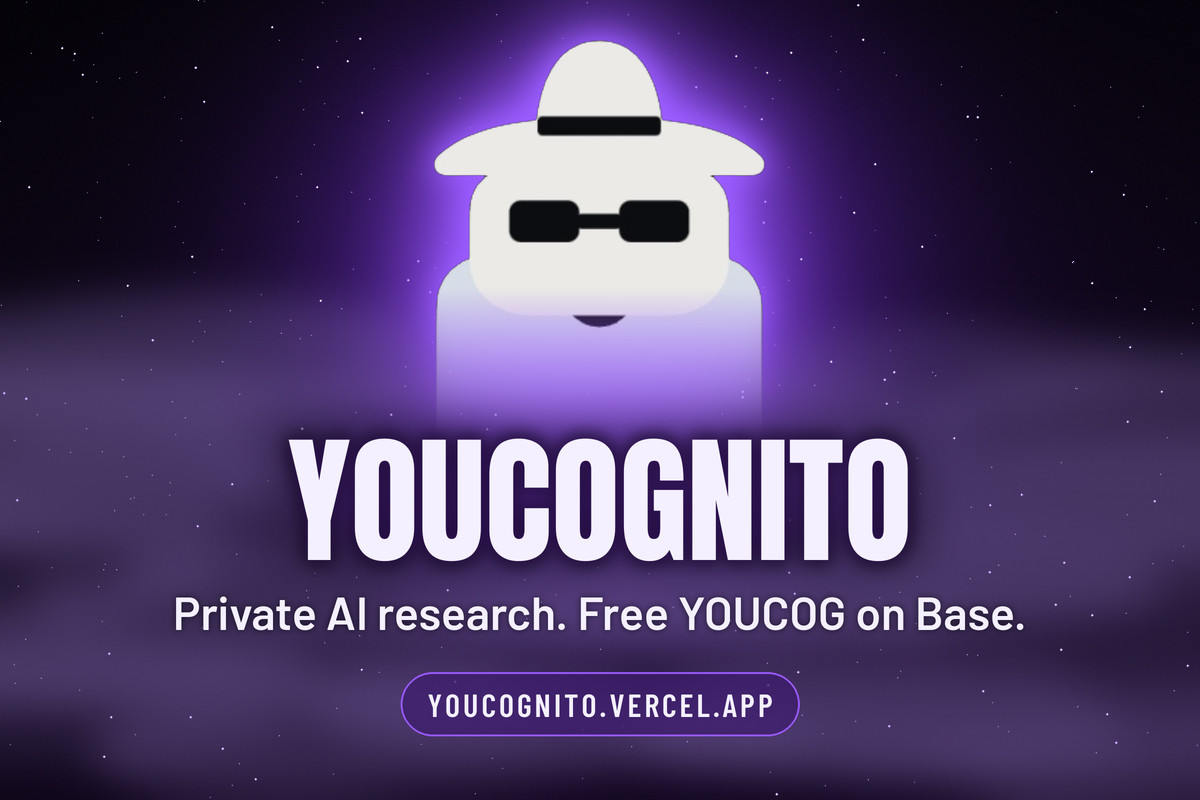
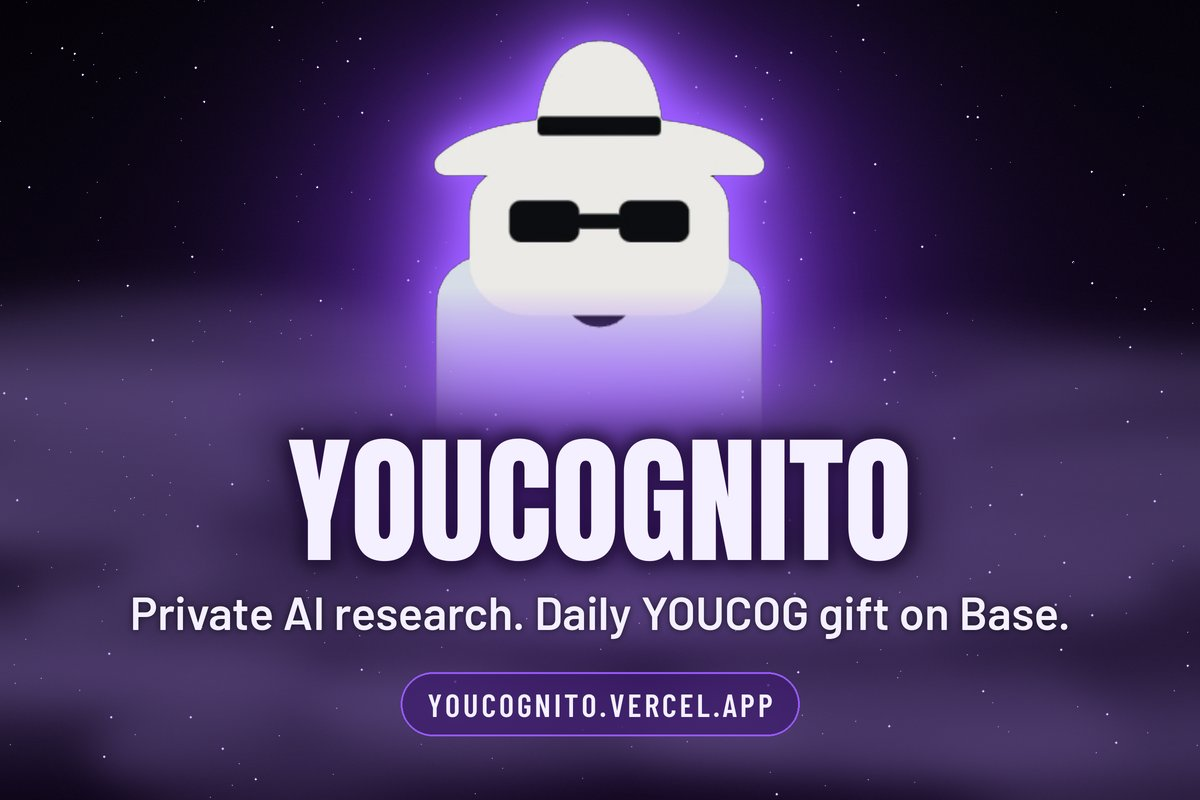
Share images and Short thumbnails: compliant gift wording (Daily YOUCOG gift on Base; no FREE or amounts), cache bust og.jpg and miniapp-embed.jpg to ?v=gift

Changed region(s): [[0.0925, 0.7188, 0.8942, 0.8125]]

diff --git a/src/routes/[.]well-known/farcaster[.]json.ts b/src/routes/[.]well-known/farcaster[.]json.ts
@@ -29,7 +29,7 @@ export const Route = createFileRoute("/.well-known/farcaster.json")({
               name: "Youcognito",
               iconUrl: `${APP_URL}/miniapp-icon.png`,
               homeUrl: `${APP_URL}/`,
-              imageUrl: `${APP_URL}/miniapp-embed.jpg`,
+              imageUrl: `${APP_URL}/miniapp-embed.jpg?v=gift`,
               buttonTitle: "Open Youcognito",
               splashImageUrl: `${APP_URL}/miniapp-splash.png`,
               splashBackgroundColor: "#000000",
@@ -38,10 +38,10 @@ export const Route = createFileRoute("/.well-known/farcaster.json")({
               tagline: "Research privately on Base",
               primaryCategory: "utility",
               tags: ["privacy", "base", "faucet", "youcog", "research"],
-              heroImageUrl: `${APP_URL}/og.jpg?v=ghost`,
+              heroImageUrl: `${APP_URL}/og.jpg?v=gift`,
               ogTitle: "Youcognito",
               ogDescription: "Private AI research on Base with sealed tabs, burnable sessions, and a daily YOUCOG faucet.",
-              ogImageUrl: `${APP_URL}/og.jpg?v=ghost`,
+              ogImageUrl: `${APP_URL}/og.jpg?v=gift`,
               requiredChains: ["eip155:8453"],
               canonicalDomain: domain,
             },

diff --git a/src/routes/index.tsx b/src/routes/index.tsx
@@ -13,14 +13,14 @@ export const Route = createFileRoute("/")({
       { property: "og:title", content: "Youcognito · Private AI research on Base" },
       { property: "og:description", content: SITE_DESCRIPTION },
       { property: "og:url", content: `${APP_URL}/` },
-      { property: "og:image", content: `${APP_URL}/og.jpg?v=ghost` },
+      { property: "og:image", content: `${APP_URL}/og.jpg?v=gift` },
       { property: "og:image:width", content: "1200" },
       { property: "og:image:height", content: "630" },
       { name: "twitter:card", content: "summary_large_image" },
       { name: "twitter:site", content: "@Youcognito" },
       { name: "twitter:title", content: "Youcognito · Private AI research on Base" },
       { name: "twitter:description", content: SITE_DESCRIPTION },
-      { name: "twitter:image", content: `${APP_URL}/og.jpg?v=ghost` },
+      { name: "twitter:image", content: `${APP_URL}/og.jpg?v=gift` },
       { name: "fc:miniapp", content: embed },
       { name: "fc:frame", content: legacy },
     ],

diff --git a/src/routes/feedback.tsx b/src/routes/feedback.tsx
@@ -18,9 +18,9 @@ export const Route = createFileRoute("/feedback")({
       { property: "og:title", content: TITLE },
       { property: "og:description", content: DESC },
       { property: "og:url", content: `${APP_URL}/feedback` },
-      { property: "og:image", content: `${APP_URL}/og.jpg?v=ghost` },
+      { property: "og:image", content: `${APP_URL}/og.jpg?v=gift` },
       { name: "twitter:card", content: "summary_large_image" },
-      { name: "twitter:image", content: `${APP_URL}/og.jpg?v=ghost` },
+      { name: "twitter:image", content: `${APP_URL}/og.jpg?v=gift` },
     ],
     links: [{ rel: "canonical", href: `${APP_URL}/feedback` }],
   }),

diff --git a/src/routes/privacy.tsx b/src/routes/privacy.tsx
@@ -14,9 +14,9 @@ export const Route = createFileRoute("/privacy")({
       { property: "og:title", content: TITLE },
       { property: "og:description", content: DESC },
       { property: "og:url", content: `${APP_URL}/privacy` },
-      { property: "og:image", content: `${APP_URL}/og.jpg?v=ghost` },
+      { property: "og:image", content: `${APP_URL}/og.jpg?v=gift` },
       { name: "twitter:card", content: "summary_large_image" },
-      { name: "twitter:image", content: `${APP_URL}/og.jpg?v=ghost` },
+      { name: "twitter:image", content: `${APP_URL}/og.jpg?v=gift` },
     ],
     links: [{ rel: "canonical", href: `${APP_URL}/privacy` }],
   }),

diff --git a/src/routes/terms.tsx b/src/routes/terms.tsx
@@ -14,9 +14,9 @@ export const Route = createFileRoute("/terms")({
       { property: "og:title", content: TITLE },
       { property: "og:description", content: DESC },
       { property: "og:url", content: `${APP_URL}/terms` },
-      { property: "og:image", content: `${APP_URL}/og.jpg?v=ghost` },
+      { property: "og:image", content: `${APP_URL}/og.jpg?v=gift` },
       { name: "twitter:card", content: "summary_large_image" },
-      { name: "twitter:image", content: `${APP_URL}/og.jpg?v=ghost` },
+      { name: "twitter:image", content: `${APP_URL}/og.jpg?v=gift` },
     ],
     links: [{ rel: "canonical", href: `${APP_URL}/terms` }],
   }),

diff --git a/src/lib/youcog/miniapp.ts b/src/lib/youcog/miniapp.ts
@@ -16,7 +16,7 @@ export function domainFromRequest(request: Request): string {
 
 export const miniAppEmbed = {
   version: "1",
-  imageUrl: `${APP_URL}/miniapp-embed.jpg`,
+  imageUrl: `${APP_URL}/miniapp-embed.jpg?v=gift`,
   button: {
     title: "Open Youcognito",
     action: {
